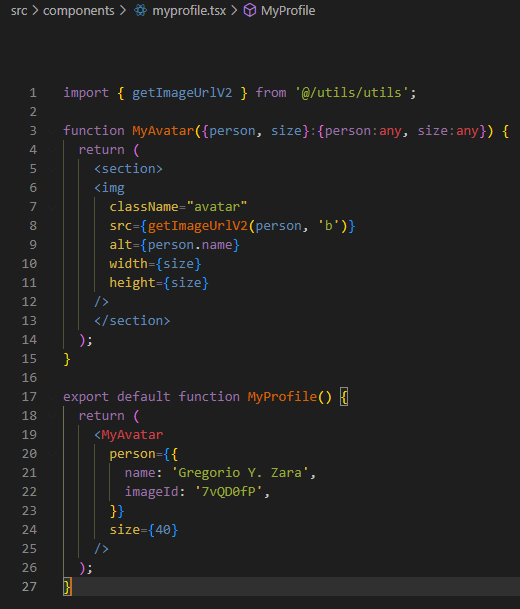
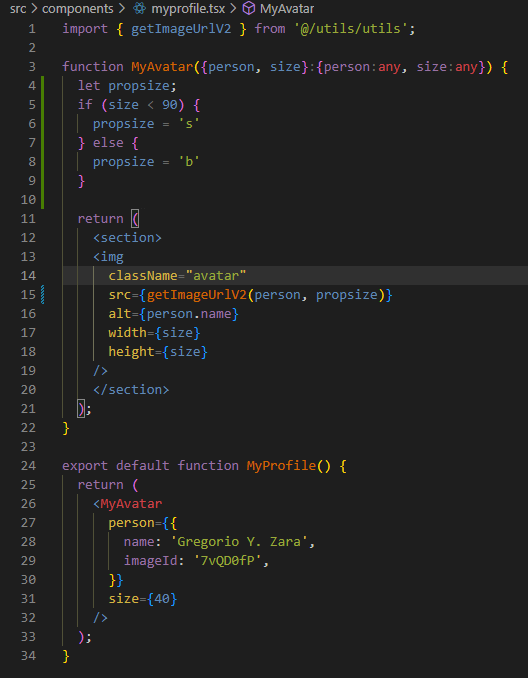
W03: Jawaban soal 9

diff --git a/src/components/myprofilev2.tsx b/src/components/myprofilev2.tsx
@@ -1,0 +1,56 @@
+function Card({ children }:{children:any}) {
+    return (
+      <div>
+        <div className="card">
+            <div className="card-content">  
+                { children }
+            </div>
+        </div>
+      </div>
+    );
+  }
+
+export default function MyProfileV2() {
+    return (
+      <div>
+        <Card>
+            <Description person={{ 
+                src: 'https://i.imgur.com/OKS67lhm.jpg', 
+                alt: 'Aklilu Lemma'
+             }}
+            size={70}
+            />
+        </Card>
+        <div>
+            <Card>
+              < About />
+            </Card>
+        </div>
+      </div>
+    );
+  }
+
+function Description({person, size}:{person:any, size:any}) {
+    return (
+        <div>  
+            <h1>Foto</h1>
+            <img
+                className="avatar"
+                src={person.src}
+                alt={person.alt}
+                width={size}
+                height={size}
+            />
+        </div>
+    );
+  }
+  
+  function About() {
+    return (
+        <div>
+            <h1>Tentang</h1>
+            <p>Aklilu Lemma adalah seorang ilmuwan terkemuka dari etiopia 
+              yang telah menemukan pengobatan alami untuk skistosomiasis.</p>
+        </div>
+    );
+  }

diff --git a/src/components/myprofile.tsx b/src/components/myprofile.tsx
@@ -1,11 +1,18 @@
 import { getImageUrlV2 } from '@/utils/utils';
 
 function MyAvatar({person, size}:{person:any, size:any}) {
+  let propsize;
+  if (size < 90) {
+    propsize = 's'
+  } else {
+    propsize = 'b'
+  }
+
   return (
     <section>
     <img
       className="avatar"
-      src={getImageUrlV2(person, 'b')}
+      src={getImageUrlV2(person, propsize)}
       alt={person.name}
       width={size}
       height={size}

diff --git a/src/app/page8/page.tsx b/src/app/page8/page.tsx
@@ -1,0 +1,9 @@
+import MyProfileV2 from "@/components/myprofilev2";
+
+export default function Tes() {
+    return (
+        <div>
+            <MyProfileV2 />
+        </div>
+    );
+  }

diff --git a/README.md b/README.md
@@ -121,5 +121,13 @@
 ### Jawaban Soal 9
 "If the code above contains an error, please correct it."
 
-"Capture hasilnya dan buatlah laporan di README.md. Jelaskan apa yang telah Anda pelajari dan bagaimana tampilannya saat ini?"
+![Screenshot](assets-report/09.1.png)
+![Screenshot](assets-report/09.2.png)
+
+"Capture the results and create a report in README.md. Explain what you have learned and how does it look now?"
+
+![Screenshot](assets-report/09.3.png)
+
+    I learn that we can simplify the code structure into children and parents.
+    Also we can pass the props into the components.
 
